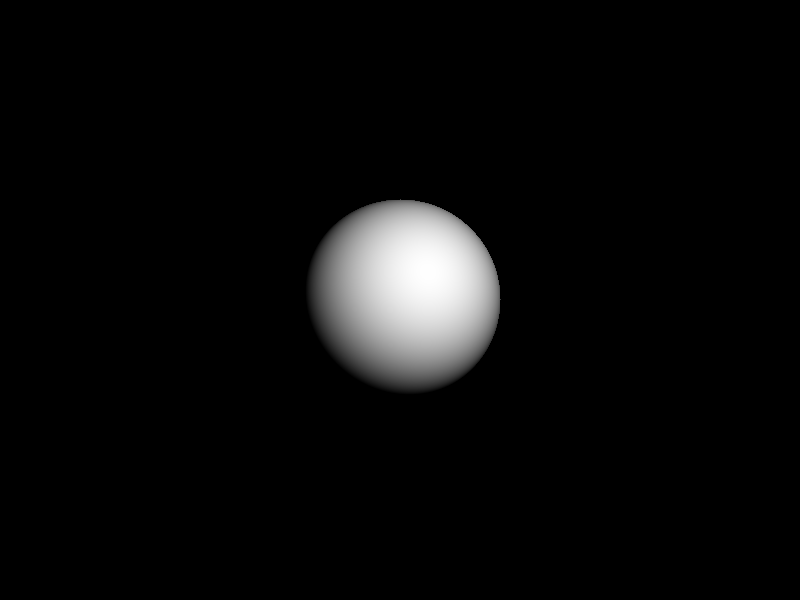
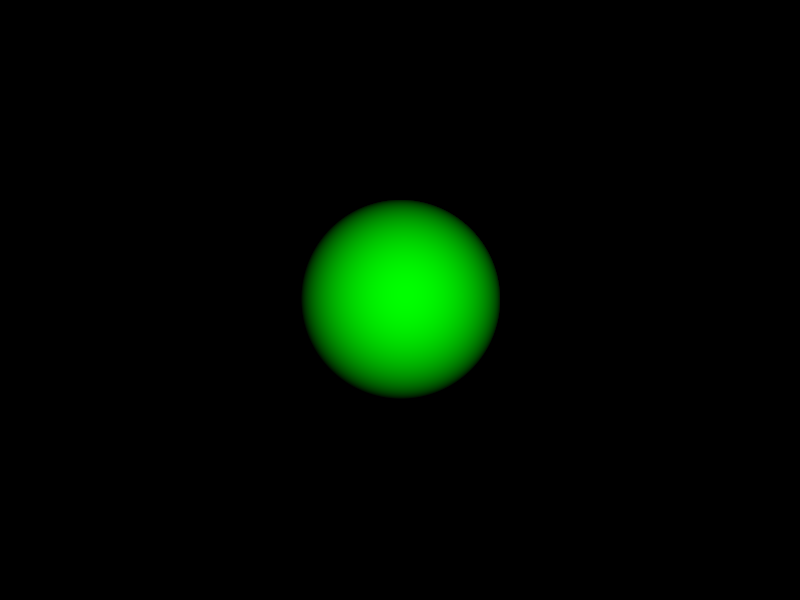
added video generation

Changed region(s): [[0.375, 0.33, 0.625, 0.66]]

diff --git a/src/pixel.c b/src/pixel.c
@@ -44,6 +44,7 @@ void setPixel(struct Vec2 pos, struct Color color){
 }
 
 
+
 void display(){
     FILE *out = fopen("temp.ppm", "w");
     fprintf(out, "P6 %d %d %d\n", width, height, maxvalue);
@@ -64,11 +65,51 @@ void display(){
 
 }
 
+void animate(int frameNo){
+    char* folderName = "temp";
+    struct stat st = {0};
+
+    if (stat(folderName, &st)){
+        if(mkdir(folderName, 0777) != 0){
+            perror("Animation Error");
+            exit(EXIT_FAILURE);
+        }
+    }
+
+    char tempFile[256];
+    snprintf(tempFile, sizeof(tempFile), "temp/temp%03d.ppm", frameNo);
+    FILE *out = fopen(tempFile, "w");
+    fprintf(out, "P6 %d %d %d\n", width, height, maxvalue);
+
+    for (size_t i = 0; i < height; i++){
+        for(size_t j = 0; j < width; j++){
+            fwrite(&rChannel[i][j], sizeof(uint8_t), 1, out);
+            fwrite(&gChannel[i][j], sizeof(uint8_t), 1, out);
+            fwrite(&bChannel[i][j], sizeof(uint8_t), 1, out);
+        }
+    }
+
+    fclose(out);
+
+}
+
+void saveVideo (const char* fileName, int frameRate){
+    char command[1024];
+    snprintf(command, sizeof(command), "ffmpeg -framerate %d -i temp/temp%%03d.ppm -c:v libx264 -pix_fmt yuv420p %s", frameRate, fileName);
+    int video_status = system(command);
+    system("rm -rf temp");
+    if (video_status == -1){
+        perror("Video Generation Error");
+        exit(EXIT_FAILURE);
+    }
+}
+
 void saveAsImage(const char* filename) {
     char command[256];  // Ensure the command buffer is large enough
     snprintf(command, sizeof(command), "convert temp.ppm %s", filename);  // Format the command string
     int conversion_status = system(command);  // Execute the command
     if (conversion_status == -1){
+        system("rm temp.ppm");
         perror("Conversion Error");
         exit(EXIT_FAILURE);
     }

diff --git a/Examples/3D geometry/sphere.c b/Examples/3D geometry/sphere.c
@@ -71,13 +71,19 @@ int main(void) {
     
     struct Vec2 center = {400, 300};
     int radius = 100;  
-    struct Color green = {255, 255, 255};
-    struct Vec3 lightSrc = {1300, 1200, 3000};  
-    
-    drawSphere(center, radius, green, lightSrc, canvasSize);
+    struct Color color = {0, 255, 0};
+    struct Vec3 lightSrc = {-2000, 700, 1200};  
+    int frame = 0;
+    while(lightSrc.x <= 2000){
+        drawSphere(center, radius, color, lightSrc, canvasSize);
+        lightSrc.x += 10;
+        animate(frame);
+        frame++;
+    }
+    saveVideo("sphere.mp4", 60);
 
     display();
-    saveAsImage("sphere.png");
+    //saveAsImage("sphere.png");
     endCanvas();
     
     return 0; 

diff --git a/src/pixel.h b/src/pixel.h
@@ -4,6 +4,7 @@
 #include <stdio.h> 
 #include <stdlib.h> 
 #include <stdint.h> 
+#include <sys/stat.h>
 
 struct Color {
     uint8_t r;
@@ -23,6 +24,8 @@ extern uint8_t **rChannel, **gChannel, **bChannel;
 void startCanvas(int screenWidth, int screenHeight);
 void setPixel(struct Vec2 pos, struct Color color);
 void display();
+void animate(int frameNo);
+void saveVideo(const char* filename, int frameRate);
 void saveAsImage(const char* filename);
 void endCanvas();
 

diff --git a/Examples/Circle Algorithms/midpoint.c b/Examples/Circle Algorithms/midpoint.c
@@ -46,7 +46,7 @@ void midpoint(struct Vec2 center, int radius){
 
 
 int main (void){
-    startCanvas (1200, 960);
+    startCanvas(1200, 960);
 
     struct Vec2 center = {600, 480};
     struct Color color = {255, 255, 0};
@@ -54,7 +54,7 @@ int main (void){
     midpoint(center, radius);
 
     display();
-    saveAsImage("midpoint_circle.jpg");
+    saveAsImage("circle/midpoint_circle.jpg");
     endCanvas();
 
 }
